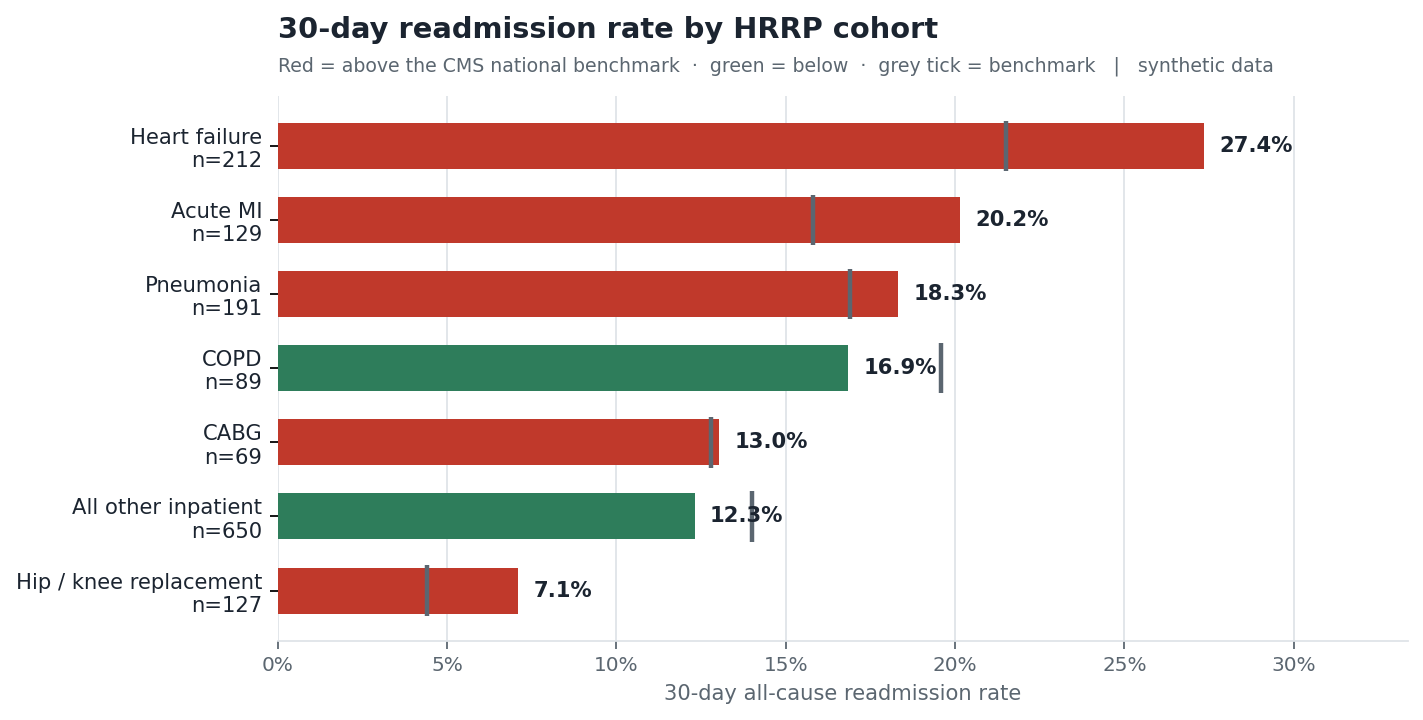
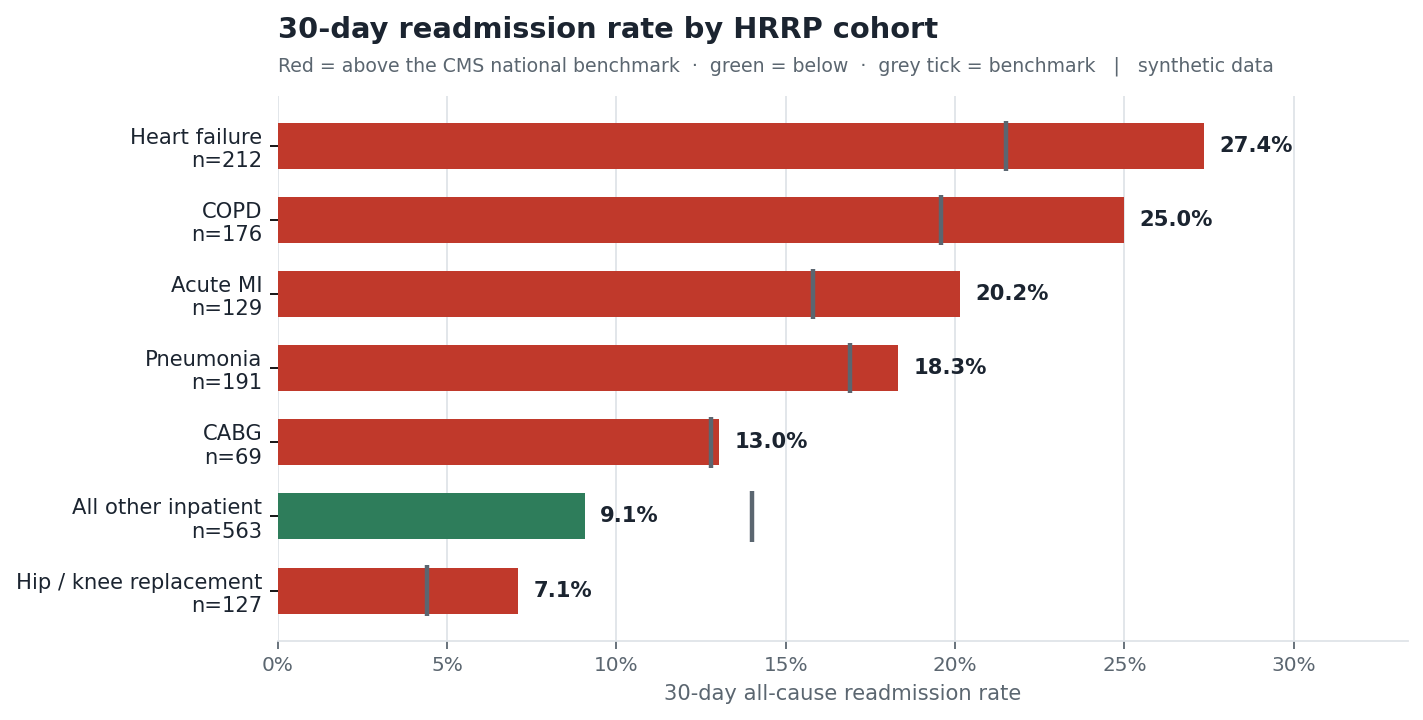
Fix COPD classification; replace a check that could never fail
The COPD rule matched '%chronic bronchitis%', but the generator emits
"Chronic obstructive bronchitis" (SNOMED 185086009). The word in the middle
broke the match, so 87 of 176 COPD admissions fell through to OTHER. COPD
reported 16.9%, below its 19.6% benchmark; the true figure is 25.0%, above
it, making COPD the second-largest exposure after heart failure.

All 25 checks passed throughout. It surfaced on the Tableau heatmap as 87
"All other" admissions in Pulmonology at 33.3%. Two blind spots:

- The range check on cohort share passed at 55.7%. A classifier that fails
  on some wordings of a condition still lands in a plausible band.
- "HRRP cohort is always populated" could never fail: hrrp_condition is NOT
  NULL and the ETL defaults to OTHER.

The dead check is replaced with one that fails when any admission whose
principal diagnosis names a target condition falls through to OTHER. It
fails with exactly 87 rows against the unfixed build and passes after the
fix. Check count stays at 25.

Headline figures are unchanged: 15.8% overall, 1,467 index admissions,
heart failure 27.4%. The README's claim that cohort ordering proves the
classifier works is softened, since the ordering held throughout the bug.

diff --git a/src/hrrp/validate.py b/src/hrrp/validate.py
@@ -128,8 +128,23 @@ VIOLATION_CHECKS = [
      """SELECT readmission_key FROM FactReadmission
         WHERE is_30day_readmission AND prior_encounter_key IS NULL"""),
 
-    ("HRRP cohort is always populated",
-     "SELECT readmission_key FROM FactReadmission WHERE hrrp_condition IS NULL"),
+    # Replaces "HRRP cohort is always populated", which could never fail:
+    # hrrp_condition is NOT NULL and the ETL COALESCEs to 'OTHER', so the query
+    # had no way to return a row. Meanwhile the range check on cohort share
+    # passed at 55.7% while half of COPD was being dropped into OTHER - a range
+    # check cannot see a classifier that fails on some wordings of a condition.
+    ("HRRP classification: no admission naming a target condition falls through to OTHER",
+     """SELECT r.readmission_key FROM FactReadmission r
+        JOIN FactEncounter e ON e.encounter_key = r.index_encounter_key
+        JOIN DimDiagnosis dd ON dd.diagnosis_key = e.principal_diagnosis_key
+        WHERE r.hrrp_condition = 'OTHER'
+          AND (dd.description ILIKE '%obstructive%'
+            OR dd.description ILIKE '%emphysema%'
+            OR dd.description ILIKE '%chronic%bronchitis%'
+            OR dd.description ILIKE '%heart failure%'
+            OR dd.description ILIKE '%cardiac failure%'
+            OR dd.description ILIKE '%myocardial infarction%'
+            OR dd.description ILIKE '%pneumonia%')"""),
 ]
 
 

diff --git a/README.md b/README.md
@@ -52,6 +52,9 @@ On the generated cohort of 1,467 index inpatient admissions:
 - **Heart failure is the dominant penalty exposure** — 27.4% vs a 21.5% national benchmark,
   5.9 points above, and the largest estimated excess cost of any cohort. It also carries the
   largest denominator among the named cohorts, so it is where intervention pays back most.
+- **COPD is the second exposure, and it was hiding** — 25.0% on 176 admissions against a 19.6%
+  benchmark, 5.4 points above. An earlier build reported it at 16.9% and *below* benchmark,
+  because the classifier was missing half its admissions. See "A bug the checks missed" below.
 - **Medicare readmits at 18.5% against 14.4% commercial** — a 4.2-point gap concentrated in
   precisely the population HRRP measures.
 - **Case-mix adjustment reorders the provider list.** Ranking providers on raw rate flags whoever
@@ -60,7 +63,8 @@ On the generated cohort of 1,467 index inpatient admissions:
   ranking worth showing a service-line director.
 
 Cohort ordering — heart failure worst, elective joint replacement best — matches the published
-CMS pattern, which is the sanity check that the classification logic is doing something real.
+CMS pattern. That is a sanity check, not proof: the ordering held even while half of COPD was
+misclassified.
 
 ---
 
@@ -141,6 +145,23 @@ match" and is miserable to trace after the fact.
 Fixed by computing the delta once and deriving both from it, using calendar-day subtraction rather
 than timestamp arithmetic — which also matches the CMS definition, where the 30th calendar day
 counts regardless of what hour either event happened at.
+
+### A bug the checks missed
+
+All 25 checks passed while half of COPD was being filed as "All other inpatient." The classifier
+matched `'%chronic bronchitis%'`; the diagnosis text was "Chronic obstructive bronchitis," and the
+word *obstructive* in the middle broke the match. COPD reported 89 admissions at 16.9%, below its
+benchmark, when the true figure was 176 at 25.0%, above it.
+
+It surfaced on the Tableau heatmap: 87 "All other" admissions sitting in Pulmonology at 33.3%, a
+combination the data should not produce. The checks had two blind spots. A range check on cohort
+share passed at 55.7%, because a classifier that fails on *some wordings* of a condition still lands
+in a plausible band. And "HRRP cohort is always populated" could never fail at all — the column is
+`NOT NULL` and the ETL defaults to `OTHER`.
+
+That dead check is replaced with one that fails if any admission whose diagnosis names a target
+condition falls through to `OTHER`. It fails with exactly 87 rows against the old build and passes
+against the fixed one, which is the evidence that it tests the right thing.
 
 ---
 
